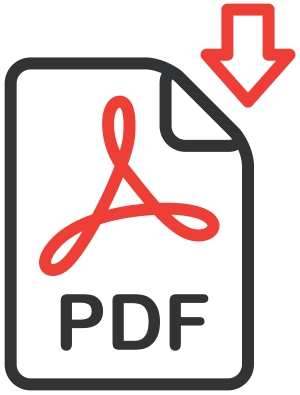
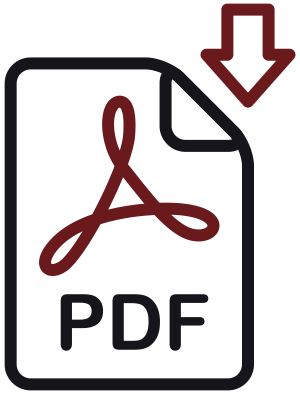
Ajuste de textura do quadro e outras imagens

diff --git a/assets/css/style.css b/assets/css/style.css
@@ -5,7 +5,7 @@
     background: rgba(0, 0, 0, .2);
 }
 ::-webkit-scrollbar-thumb {
-    background: rgba(255, 255, 255, 0.2);
+    background: rgba(255, 255, 255, 0.3);
 }
 ::-webkit-scrollbar-thumb:hover {
     background: rgba(255, 255, 255, 0.4);
@@ -26,7 +26,6 @@ body {
 }
 /*~~~~~~~~~~~~~~~~~~~~~~~~~~~~~~~~~~~~~~~~~~~~~~~~~~~~~~~~~~~~~~~~~~~~~~~~~~~~~~~~~~~~~*/
 #pinboard {
-    opacity: .95;
     display: list-item;
     align-items: center;
     justify-content: center;
@@ -36,8 +35,8 @@ body {
     max-width: 1300px;
     height: 96vh;
     background-image:
-        radial-gradient(transparent, transparent,rgba(0,0,0, .5) 75%),
-        url("../img/abcde.jpg");
+        radial-gradient(transparent, transparent,rgba(0,0,0, .4) 75%),
+        url("../img/pinboard.jpg");
     background-size: cover;
     background-position: left top;
     border: 2vh solid transparent;
@@ -57,7 +56,7 @@ body {
 }
 /*~~~~~~~~~~~~~~~~~~~~~~~~~~~~~~~~~~~~~~~~~~~~~~~~~~~~~~~~~~~~~~~~~~~~~~~~~~~~~~~~~~~~~*/
 #foto-perfil {
-    background-image: url("/assets/img/profile-pic.jpeg");
+    background-image: url("../img/profile-pic.jpeg");
     background-size: cover;
     position: relative;
     margin: 3vw auto;
@@ -110,7 +109,7 @@ body {
     height: 22vw;
     max-height: 280px;
     opacity: .84;
-    background-color: rgba(0, 0, 0, 0.2);
+    background-color: rgba(0, 0, 0, 0.3);
     box-shadow: .2vw .1vh 1vh rgba(0, 0, 0, 0.7);
     border: solid .1vh rgba(0, 0, 0, .2);
     transition: all 200ms ease-in-out;
@@ -126,7 +125,6 @@ body {
     margin: .5vh 1vw 0 1vw;
 }
 #pdf-icon {
-    opacity: .9;
     width: 10vw;
     max-height: 200px;
     max-width: 150px;
